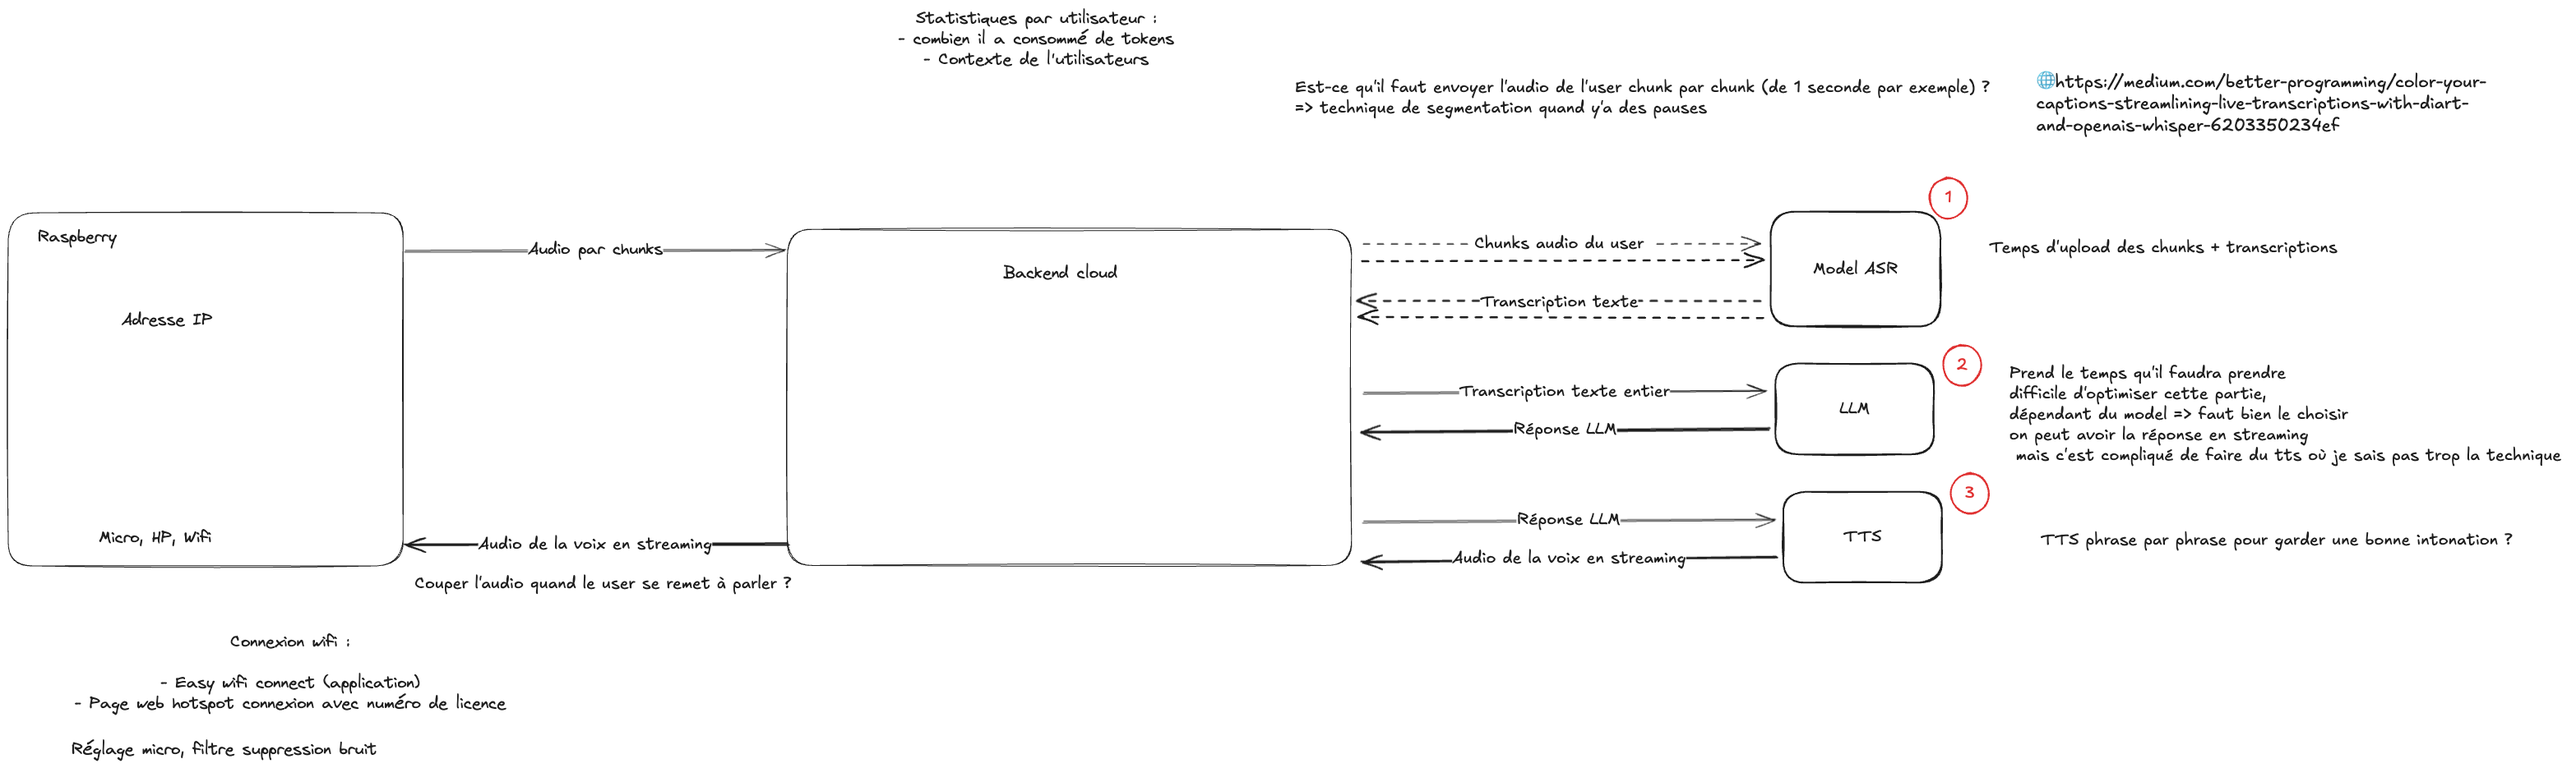
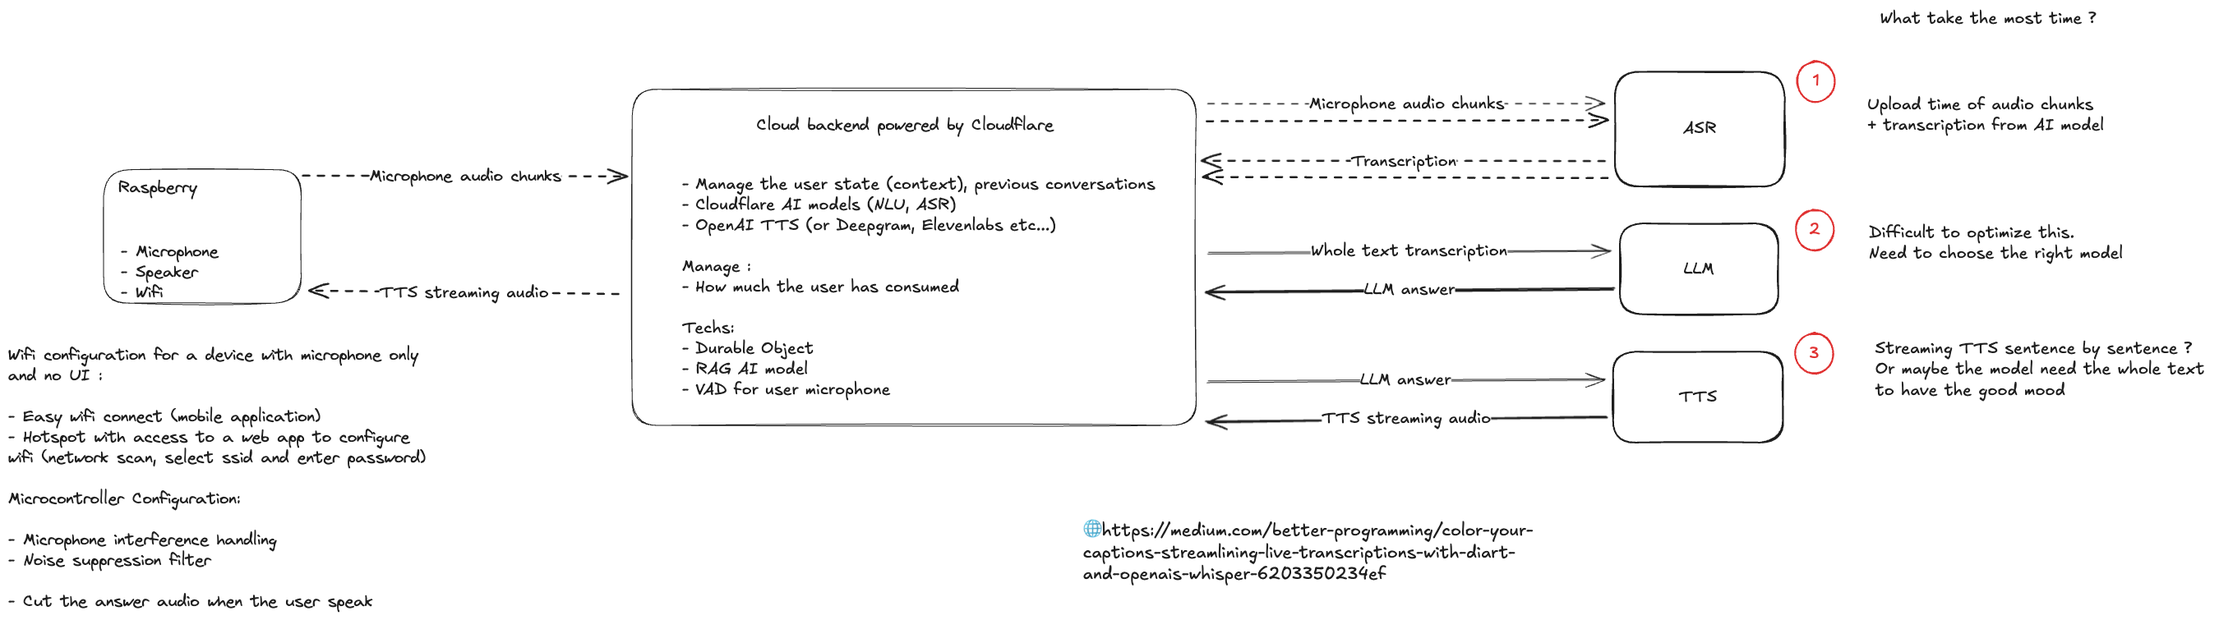
docs: update diagram

diff --git a/README.md b/README.md
@@ -2,6 +2,10 @@
 
 The goal is to build a fully backend-based AI conversational system, allowing any device (also with low resources) to connect via WebSocket and initiate a conversation with the AI just by sending and receiving audio chunks and benefits from the functionalities of the system e.g. conversation history, LLM power, low-latency streaming, cost-effectiveness, cost tracking by user, etc.
 
+<!-- image from docs -->
+
+![Diagram schema showing interactions between systems](docs/Diagram.png "AI Conversational system diagram")
+
 ## Features
 
 - 🎙 The voice is captured by the browser.
@@ -23,8 +27,8 @@ The goal is to build a fully backend-based AI conversational system, allowing an
 
 ## Old features from cloudflare agents starter
 
-- 🛠 Built-in tool system with human-in-the-loop confirmation 
-- 📅 Advanced task scheduling (one-time, delayed, and recurring via cron) 
+- 🛠 Built-in tool system with human-in-the-loop confirmation
+- 📅 Advanced task scheduling (one-time, delayed, and recurring via cron)
 - 🔄 State management and chat history
 
 ## Prerequisites
